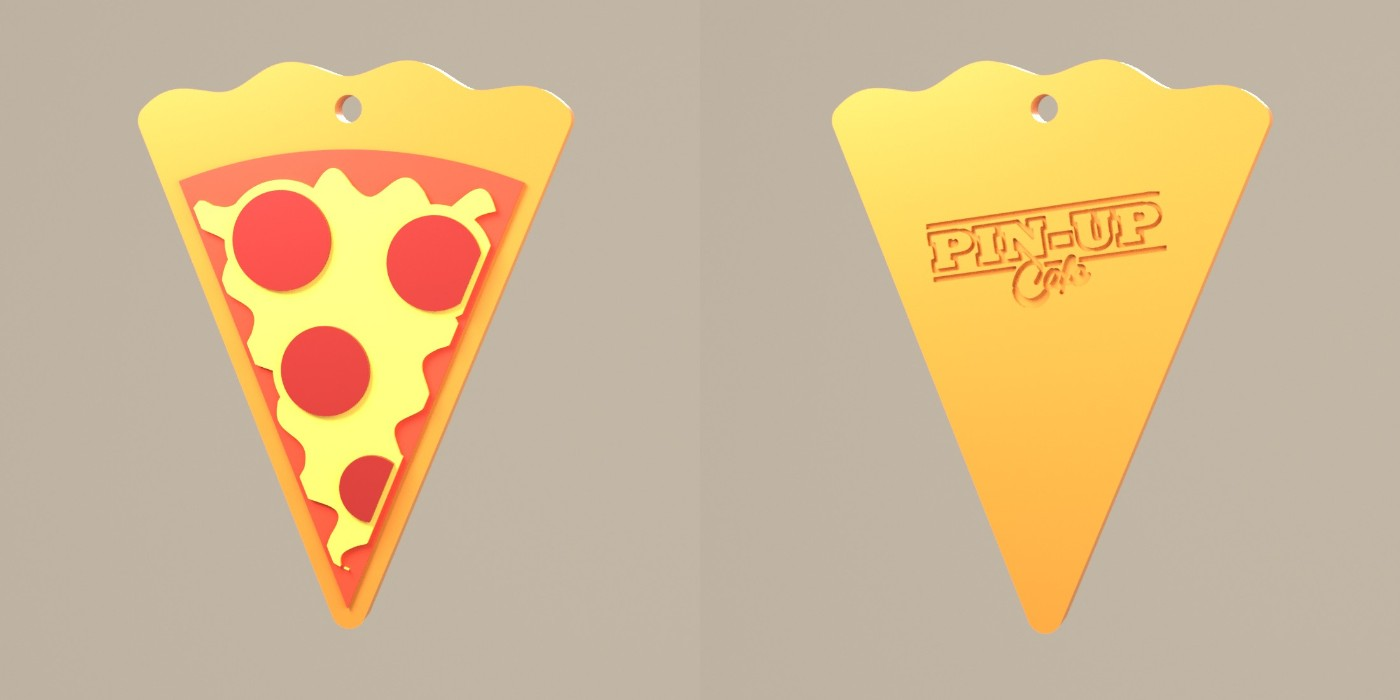
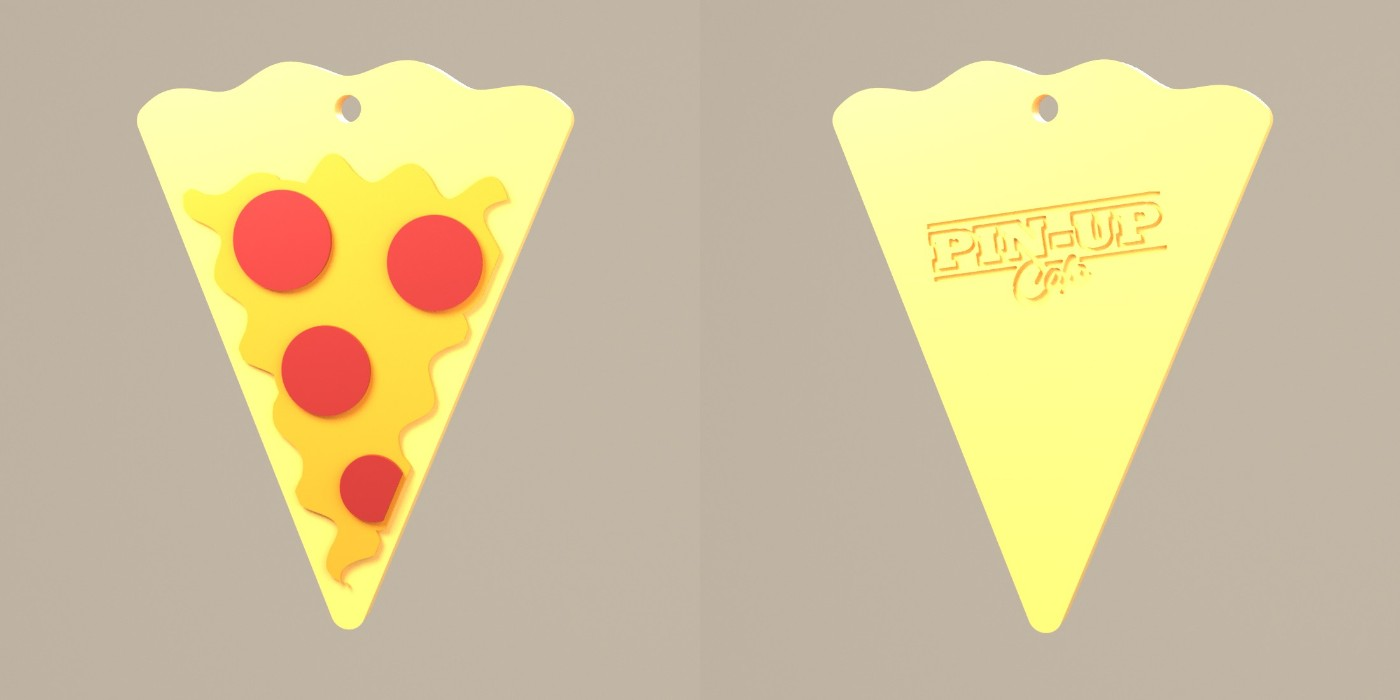
Addobbi piatti: colori in sequenza senza ritorni (pizza a 2 cambi colore)
Claude-Session: https://claude.ai/code/session_018R7LFt7EiVGEL34tPqW5rx

Changed region(s): [[0.5836, 0.09, 0.9214, 0.9], [0.0921, 0.09, 0.43, 0.9]]

diff --git a/progetti/pinup-cafe/addobbi-natale/genera_addobbi.py b/progetti/pinup-cafe/addobbi-natale/genera_addobbi.py
@@ -7,7 +7,10 @@ Emozioni in 3D - Addobbi di Natale PIN-UP Cafe (6-8 cm) con logo sul retro.
   polpo      - piatto, con cappello di Babbo Natale, dettagli in rilievo
   pesciolino - piatto, dettagli in rilievo
   patatine   - 3D, cartoccio rosso con fascia bianca e patatine
-  pizza      - piatto, spicchio a strati (impasto, salsa, mozzarella, salame)
+  pizza      - piatto, spicchio a strati (impasto, formaggio, salame)
+
+Regola per gli addobbi piatti: i colori si susseguono dal basso verso l'alto
+senza mai tornare a un colore già usato -> al massimo 2 cambi filamento.
 
 Ogni pezzo è già orientato per la stampa (Z = direzione di stampa) ed è diviso
 in parti per colore. Le parti di ogni addobbo occupano fasce di quota separate,
@@ -28,7 +31,7 @@ COLORI = {
     "pane": "#C27326", "pane_chiaro": "#D4A866", "carne": "#5A3420", "formaggio": "#F6C12C",
     "insalata": "#5DA93B", "pomodoro": "#D9372B", "prosciutto": "#EFA3A1", "oliva": "#5E7A2A",
     "rosso": "#C8202F", "bianco": "#F4F4F0", "nero": "#202020", "azzurro": "#2E8FD0",
-    "salsa": "#CF3A24", "patatina": "#F3B63A", "mozzarella": "#F0C24A", "salame": "#8A1D1A",
+    "salsa": "#CF3A24", "patatina": "#F3B63A", "impasto": "#E2AE52", "formaggio_scuro": "#D9821A", "mozzarella": "#F0C24A", "salame": "#8A1D1A",
 }
 
 # ----------------------------------------------------------------- utilità 2D/3D
@@ -279,21 +282,20 @@ def pizza():
     spicchio = arrotonda(spicchio.offset(1.0, R), 2.2)
     foro_c = (0, 66.0)
     foro = cerchio(1.7, foro_c)
-    # strati: impasto 0-4, salsa 4-4.6, mozzarella 4.6-5.4, salame 5.4-6.2
-    salsa2d = settore(62.5, ANG).offset(-1.4, R) ^ spicchio
-    mozz2d = increspa(settore(60.0, ANG).offset(-3.2, R), 1.6, 15, seme=4)
+    # strati in sequenza, senza tornare a un colore già usato (2 soli cambi):
+    #   giallo chiaro (impasto) 0-4  ->  giallo scuro (formaggio) 4-4.8  ->  rosso (salame) 4.8-5.6
+    mozz2d = increspa(settore(61.0, ANG).offset(-2.4, R), 1.6, 15, seme=4)
     fette = [((-8, 50), 6.2), ((11, 47.5), 5.8), ((-2.5, 34), 5.6), ((3.5, 19.5), 4.2)]
     salame2d = CrossSection()
     for c, r in fette:
         salame2d = salame2d + cerchio(r, c)
-    mozz2d = (mozz2d + salame2d.offset(1.2, R)) ^ salsa2d.offset(-0.8, R)   # il salame poggia sempre sulla mozzarella
+    mozz2d = (mozz2d + salame2d.offset(1.2, R)) ^ spicchio.offset(-1.8, R)   # il salame poggia sempre sul formaggio
     salame2d = salame2d ^ mozz2d.offset(-0.6, R)
     base = estrudi(spicchio - foro, BASE_H)
     base = incidi_logo_sotto(base, spicchio - settore(64, ANG + 10).offset(-30, R) - foro.offset(2, R), 30, (0, 49))
-    parti = [("pane", base),
-             ("salsa", estrudi(salsa2d, 0.6, BASE_H - 0.01)),
-             ("mozzarella", estrudi(mozz2d, 0.8, BASE_H + 0.59)),
-             ("salame", estrudi(salame2d, 0.8, BASE_H + 1.38))]
+    parti = [("impasto", base),
+             ("formaggio_scuro", estrudi(mozz2d, RILIEVO1 - 0.2, BASE_H - 0.01)),
+             ("salame", estrudi(salame2d, RILIEVO2, BASE_H + RILIEVO1 - 0.22))]
     return [(c, m.translate([0, -35, 0])) for c, m in parti]
 
 # ----------------------------------------------------------------- PATATINE (3D, a strati)

diff --git a/progetti/pinup-cafe/addobbi-natale/README.md b/progetti/pinup-cafe/addobbi-natale/README.md
@@ -14,7 +14,9 @@ Sei addobbi da 6-8 cm per l'albero, con il logo PIN-UP inciso sul retro.
 | Polpo | piatto, 5,8 mm | 65 × 73 mm | rosso + dettagli bianchi + dettagli neri |
 | Pesciolino | piatto, 5,8 mm | 71 × 51 mm | azzurro + dettagli bianchi + dettagli neri |
 | Patatine | 3D | 42 × 23 × 76 mm | cartoccio rosso (stelle davanti, logo dietro), fascia bianca, patatine gialle |
-| Pizza | piatto, 6,2 mm | 54 × 71 mm | impasto, salsa, mozzarella, salame (salsa e salame possono usare lo stesso rosso) |
+| Pizza | piatto, 5,6 mm | 54 × 71 mm | giallo chiaro (impasto) + giallo scuro (formaggio) + rosso (salame) |
+
+**Regola per gli addobbi piatti:** i colori si susseguono dal basso verso l'alto senza mai tornare a un colore già usato, quindi bastano al massimo 2 cambi filamento (es. rosso → bianco → nero).
 
 Sono **bozze per i rendering**: dopo l'approvazione si preparano i file 3MF di stampa, con le quote dei cambi colore.
 
